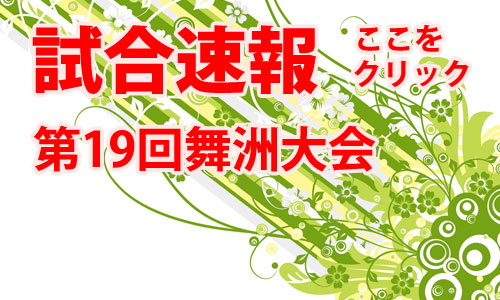
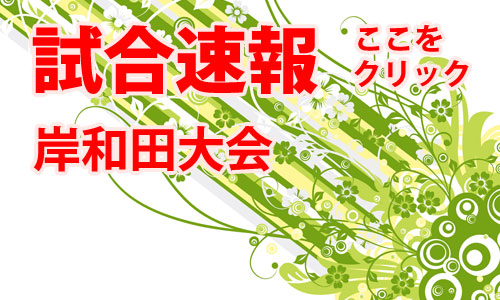
岸和田大会の試合速報を追加

Changed region(s): [[0.06, 0.39, 0.78, 0.6]]

diff --git a/index.html b/index.html
@@ -63,8 +63,9 @@ $(document).ready(function(){
         </li>
         <li class="ui-tabs-nav-item" id="nav-fragment-2">
           <a href="#fragment-2"><img src="images/slide_flash_report.jpg" width="106" height="66" /><span>試合速報<br />
-          第19回舞洲大会</span></a>
+          岸和田大会</span></a>
         </li>
+<!--
         <li class="ui-tabs-nav-item" id="nav-fragment-3">
           <a href="#fragment-3"><img src="images/slide_twitter.jpg" width="106" height="66" /><span>ツイッターでつぶやいてみよう！<br />
           #ソフチャ</span></a>
@@ -72,6 +73,7 @@ $(document).ready(function(){
         <li class="ui-tabs-nav-item" id="nav-fragment-4">
           <a href="#fragment-4"><img src="images/slide_team_link.jpg" width="106" height="66" /><span>ホームページの相互リンク募集</span></a>
         </li>
+-->
       </ul>
       
       <!-- 大表示 -->
@@ -81,24 +83,24 @@ $(document).ready(function(){
         <img src="images/201306_kishiwada_slide.jpg"/>
         <div class="info" >
           <h2>岸和田大会</h2>
-          <p>トリムⅠ、トリムⅡ、レディースⅠ、レディースⅡ、メンズⅠ の5カテゴリーで開催</p>
-          <p>当日は、8時45分から受付</p>
+          <p>トリムフリー、トリム２、レディースフリー、レディース２ の４カテゴリーで開催</p>
+          <p>当日は、８時４５分から受付</p>
         </div>
       </div>
       </a>
       <!-- Second Content -->
-      <a href="https://www.dropbox.com/sh/z1e11jsxgci2fl4/sjcndMLkcD">
+      <a href="https://www.dropbox.com/sh/oavx09323dhgmr1/wQTsYtWIbK">
       <div id="fragment-2" class="ui-tabs-panel" style="">
         <img src="images/slide_flash_report.jpg"/>
         <div class="info" >
-          <h2>試合速報　第19回舞洲大会</h2>
-          <p>ここをクリックするとダウンロードページへ移動します。<br />
-            予選結果からトーナメント結果まですべて確認できます。<br />
-            Excelの計算式(勝ち数，セット数，得失点など)が、一部のスマホアプリではきちんと計算されないことがありますが、ご了承ください。</p>
+          <h2>試合速報　岸和田大会</h2>
+          <p>試合当日、リアルタイムに試合結果を確認できます。</p>
+          <p>大会前ですが、予選の組合せを公開します。</p>
         </div>
       </div>
       </a>
       <!-- Third Content -->
+<!--
       <div id="fragment-3" class="ui-tabs-panel" style="">
         <img src="images/slide_twitter.jpg"/>
         <div class="info" >
@@ -108,7 +110,9 @@ $(document).ready(function(){
             アカウントによっては、つぶやいても表示されない場合もあります。</p>
         </div>
       </div>
+-->
       <!-- Fourth Content -->
+<!--
       <div id="fragment-4" class="ui-tabs-panel" style="">
         <img src="images/slide_team_link.jpg"/>
         <div class="info" >
@@ -117,6 +121,7 @@ $(document).ready(function(){
             チーム名，住所，URLをチャリティースタッフまでご連絡ください。</p>
         </div>
       </div>
+-->
     </div>
     <!-- #featured -->
   </div>
@@ -173,13 +178,15 @@ new TWTR.Widget({
       <h2>最新のお知らせ</h2>
       <ul>
         <li id="newsFirst">
+          <a href="https://www.dropbox.com/sh/oavx09323dhgmr1/wQTsYtWIbK">2013年06月09日：岸和田大会の試合速報を追加 <img src="images/newsArrow.jpg" width="13px" height="13px"/></a>
+        </li>
+        <li>
           <a href="nextCup_201306_kishiwada.html">2013年05月02日：岸和田大会の大会要項を追加 <img src="images/newsArrow.jpg" width="13px" height="13px"/></a>
         </li>
         <li>
           <a href="nextCup_201304_hirano.html">2013年04月04日：平野大会の大会要項を追加<img src="images/newsArrow.jpg" width="13px" height="13px"/></a>
         </li>
         <li>2013年03月03日：ホームページの相互リンク募集を追加</li>
-        <li>2013年03月02日：ツイッターのつぶやき（#ソフチャ）表示を追加</li>
       </ul>
       <div id="newsBottom"></div>
     </div>
